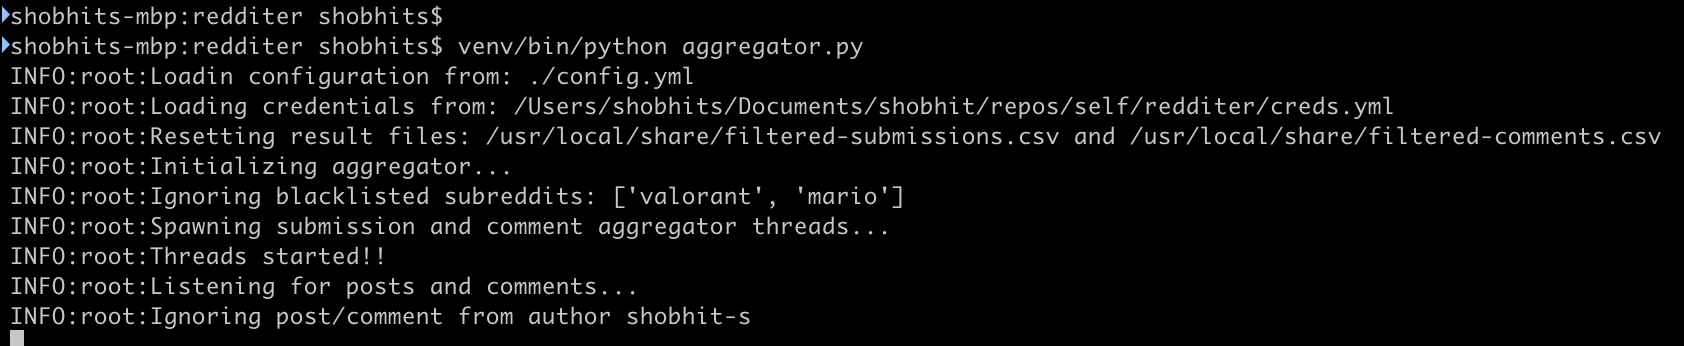
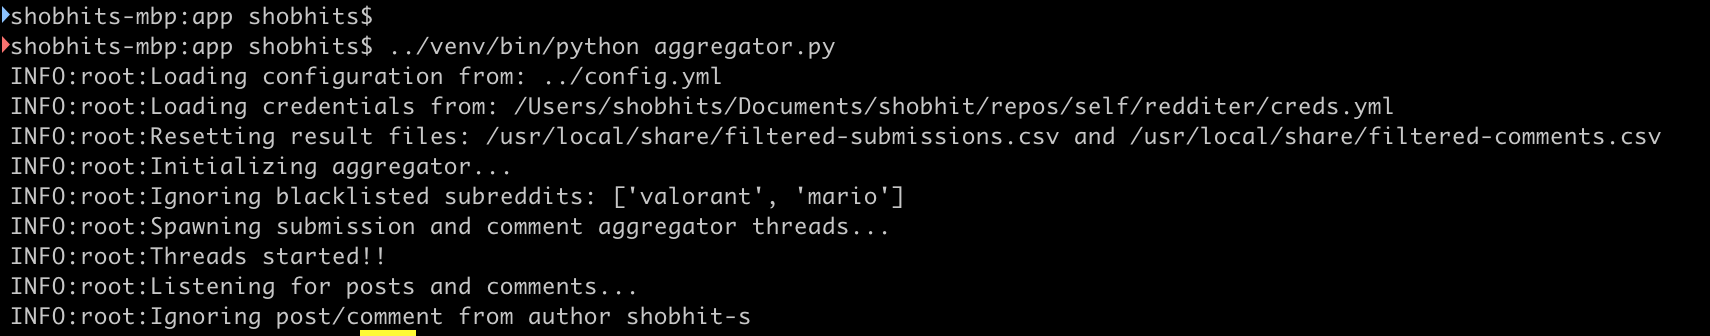
Added unit tests and changed directory structure (#3)

Changed region(s): [[0.0, 0.0298, 0.9881, 1.0]]

diff --git a/app/filters.py b/app/filters.py
@@ -1,0 +1,53 @@
+import logging
+import sys
+
+logging.basicConfig(stream=sys.stdout, level=logging.INFO)
+
+'''
+1. It extracts only those posts or comments that include all of the keywords specified in `redditer/config.yml`
+2. Subreddits mentioned in `exclude` section of `redditer/config.yml` are ignored even if the user is subscribed to it
+3. Posts or comments made by authors mentioned in `exclude` section of `redditer/config.yml` are ignored.
+'''
+class BaseFilter:
+    def __init__(self, config):
+        self.keywords = config["keywords"]
+        self.config = config
+
+    def keywordCheck(self, body):
+        for keyword in self.keywords:
+            if keyword not in body:
+                return False
+        return True
+
+    def ignoreAuthors(self, author):
+        if author in self.config.get("exclude").get("authors"):
+            logging.info("Ignoring post/comment from author " + author)
+            return True
+        return False
+
+    def basicCommentFilters(self, object):
+        acceptable = self.keywordCheck(object.body) and not self.ignoreAuthors(object.author.name)
+        return object if acceptable else None
+
+    def basicSubmissionFilters(self, object):
+        acceptable = self.keywordCheck(object.title + " " + object.selftext) and not self.ignoreAuthors(object.author.name)
+        return object if acceptable else None
+
+'''
+Driver class for all filters to be applied to the stream of data
+'''
+class Filters(BaseFilter):
+    def __init__(self, config):
+        BaseFilter.__init__(self, config)
+
+    def applyToComment(self, object):
+        object = self.basicCommentFilters(object)
+        # call other filters if required e.g.:
+        # object = SomeNewFilterClass.someNewFilter(object) if object is not None else None
+        return object
+
+    def applyToSubmission(self, object):
+        object = self.basicSubmissionFilters(object)
+        # call other filters if required e.g.:
+        # object = SomeNewFilterClass.someNewFilter(object) if object is not None else None
+        return object

diff --git a/tests/filters_test.py b/tests/filters_test.py
@@ -1,0 +1,42 @@
+import unittest
+import test_setup
+from app.filters import BaseFilter
+
+
+class FakeAuthor:
+    def __init__(self, author):
+        self.name = author
+
+class FakeClass:
+    def __init__(self, body, author, title="title", selftext="selftext"):
+        self.body = body
+        self.author = FakeAuthor(author)
+        self.title = title
+        self.selftext = selftext
+
+class TestBaseFilter(unittest.TestCase):
+
+    def test_keywordCheck(self):
+        b = BaseFilter({"keywords": ["randomkeyword"]})
+        self.assertEqual(b.keywordCheck("contains randomkeyword"), True)
+        self.assertEqual(b.keywordCheck("does not contain keyword"), False)
+
+    def test_ignoreAuthors(self):
+        b = BaseFilter({"keywords": ["randomkeyword"], "exclude": {"authors": ["shobhit"]}})
+        self.assertEqual(b.ignoreAuthors("shobhit"), True)
+        self.assertEqual(b.ignoreAuthors("shekhar"), False)
+
+    def test_basicCommentFilters(self):
+        b = BaseFilter({"keywords": ["randomkeyword"], "exclude": {"authors": ["shobhit"]}})
+        fake_object = FakeClass("randomkeyword", "shekhar")
+        self.assertEqual(b.basicCommentFilters(fake_object), fake_object)
+        fake_object = FakeClass("diffkeyword", "shekhar")
+        self.assertEqual(b.basicCommentFilters(fake_object), None)
+
+    def test_basicSubmissionFilters(self):
+        b = BaseFilter({"keywords": ["randomkeyword"], "exclude": {"authors": ["shobhit"]}})
+        fake_object = FakeClass("randomkeyword", "shekhar", "randomkeyword")
+        self.assertEqual(b.basicSubmissionFilters(fake_object), fake_object)
+        fake_object = FakeClass("diffkeyword", "shekhar", "diffkeyword")
+        self.assertEqual(b.basicSubmissionFilters(fake_object), None)
+

diff --git a/tests/reddit_helper_test.py b/tests/reddit_helper_test.py
@@ -1,0 +1,58 @@
+from unittest.mock import patch
+from unittest.mock import MagicMock
+import test_setup
+from app.reddit_helper import RedditHelper
+import unittest
+
+class FakeSubmissionComment:
+    def __init__(self):
+        pass
+
+    def submissions(self, pause_after):
+        pass
+
+    def comments(self, pause_after):
+        pass
+
+class FakeSubreddit:
+    def __init__(self, display_name):
+        self.display_name = display_name
+        self.stream = FakeSubmissionComment()
+
+
+class TestRedditHelper(unittest.TestCase):
+
+    def test_user_subreddits(self):
+        rh = RedditHelper('abc', 'def', 'ghi', 'jkl', 'mno', {"exclude": {"subreddits": ['kjhfnjk']}})
+        rh.reddit.user.subreddits = MagicMock(return_value=[FakeSubreddit("kjhfnjk")])
+        self.assertEqual(rh.userSubreddits(), [])
+
+    def test_start_posts_stream(self):
+        rh = RedditHelper('abc', 'def', 'ghi', 'jkl', 'mno', {"exclude": {"subreddits": ['kjhfnjk']}})
+        rh.reddit.subreddit = MagicMock(return_value=FakeSubreddit("kjhfnjk"))
+        with patch.object(FakeSubmissionComment, 'submissions', return_value=None, auto_spec=True) as rs:
+            rh.startPostsStream('some-subreddit')
+            rs.assert_called_with(pause_after=-1)
+
+    def test_start_comments_stream(self):
+        rh = RedditHelper('abc', 'def', 'ghi', 'jkl', 'mno', {"exclude": {"subreddits": ['kjhfnjk']}})
+        rh.reddit.subreddit = MagicMock(return_value=FakeSubreddit("kjhfnjk"))
+        with patch.object(FakeSubmissionComment, 'comments', return_value=None, auto_spec=True) as rs:
+            rh.startCommentsStream('some-subreddit')
+            rs.assert_called_with(pause_after=-1)
+
+
+
+
+
+
+
+
+
+
+
+
+
+
+
+

diff --git a/app/aggregator.py b/app/aggregator.py
@@ -7,13 +7,21 @@ import os
 import yaml
 import logging
 
-import reddit_helper
-import dumper
 import postman
 import filters
+import reddit_helper
+import dumper
 
 logging.basicConfig(stream=sys.stdout, level=logging.INFO)
 
+
+'''
+The job of Aggregator is to:
+1. Stream posts and comments at 10 seconds interval
+2. Filter out data that doesn't match the base filters and custom filters
+3. Add the given response to matched posts and comments
+4. Dump data about the filtered posts and comments to `submissionsFile` and `commentsFile`
+'''
 class Aggregator:
     def __init__(self, redditHelper, config):
         logging.info("Initializing aggregator...")
@@ -83,7 +91,7 @@ def resetResultFiles(submissionsFile, commentsFile):
         os.remove(commentsFile)
 
 def loadConfig(path):
-    logging.info("Loadin configuration from: " + path)
+    logging.info("Loading configuration from: " + path)
     with open(path) as file:
         config = yaml.load(file, Loader=yaml.FullLoader)
     return config
@@ -95,7 +103,7 @@ def loadCreds(path):
     return creds
 
 def main():
-    config = loadConfig("./config.yml")
+    config = loadConfig("../config.yml")
     creds = loadCreds(config["credsPath"])
 
     resetResultFiles(config["submissionsFile"], config["commentsFile"])

diff --git a/tests/postman_test.py b/tests/postman_test.py
@@ -1,0 +1,34 @@
+import unittest
+import test_setup
+from app.postman import PostMan
+from unittest.mock import MagicMock
+
+class FakeComment:
+    def __init__(self, id):
+        self.id = id
+
+    def reply(self):
+        pass
+
+class FakeSubmission:
+    def __init__(self, id):
+        self.id = id
+
+    def reply(self):
+        pass
+
+class TestPostman(unittest.TestCase):
+
+    def test_postComment(self):
+        p = PostMan("My new response")
+        fake_sub = FakeSubmission('hnauw6')
+        fake_sub.reply = MagicMock()
+        p.postComment(fake_sub)
+        fake_sub.reply.assert_called_with("My new response")
+
+    def test_postReply(self):
+        p = PostMan("My new response")
+        fake_sub = FakeComment('hnauw6')
+        fake_sub.reply = MagicMock()
+        p.postComment(fake_sub)
+        fake_sub.reply.assert_called_with("My new response")

diff --git a/tests/dumper_test.py b/tests/dumper_test.py
@@ -1,0 +1,21 @@
+import unittest
+import test_setup
+from app.dumper import Dumper
+from unittest import mock
+import json
+
+class TestDumper(unittest.TestCase):
+
+    def test_dump_submission(self):
+        d = Dumper({'submissionsFile': '/a/b/c/d', "commentsFile": '/e/f/g/h'})
+        mock_open = mock.mock_open(read_data=json.dumps({}))
+        with mock.patch('builtins.open', mock_open):
+            d.dumpSubmission(["abc", "def", "ghi"])
+            mock_open.assert_called_with('/a/b/c/d', 'a')
+
+    def test_dump_comment(self):
+        d = Dumper({'submissionsFile': '/a/b/c/d', "commentsFile": '/e/f/g/h'})
+        mock_open = mock.mock_open(read_data=json.dumps({}))
+        with mock.patch('builtins.open', mock_open):
+            d.dumpComment(["abc", "def"])
+            mock_open.assert_called_with('/e/f/g/h', 'a')

diff --git a/app/dumper.py b/app/dumper.py
@@ -3,6 +3,11 @@ import logging
 import sys
 logging.basicConfig(stream=sys.stdout, level=logging.INFO)
 
+
+'''
+The job of dumper is to dump rows of filtered data sent to it by aggregator
+to submissionsFile and commentsFile
+'''
 class Dumper:
     def __init__(self, config):
         self.submissionsFile = config["submissionsFile"]

diff --git a/tests/test_setup.py b/tests/test_setup.py
@@ -1,0 +1,4 @@
+import os,sys,inspect
+current_dir = os.path.dirname(os.path.abspath(inspect.getfile(inspect.currentframe())))
+parent_dir = os.path.dirname(current_dir)
+sys.path.insert(0, parent_dir)

diff --git a/README.md b/README.md
@@ -49,8 +49,8 @@ venv/bin/pip install -r requirements.txt
 
 6. Start redditer:
     ```shell
-    cd redditer/
-    venv/bin/python aggregator.py
+    cd redditer/app/
+    ../venv/bin/python aggregator.py
     ```
     
 ## How it Works
@@ -65,22 +65,28 @@ venv/bin/pip install -r requirements.txt
 
 4. Creates `redditHelper` object using the configurations provided and `praw` python package.
 
-5. Initializes Aggregator object. Aggregator in turn does the following before returning the object:
+5. Initializes Aggregator object. Aggregator initializes the following before returning the object:
     1. Initialize `filters` object - The job of filters is to apply user-provided filters to all posts or comments that the aggregator aggregates.
     2. Initialize `postMan` object - Postman reads the response provided by the user and applies that response to all the filtered out posts and comments.
     3. Initialize `dumper` object - The job of dumper is to dump all the filtered out submissions and comments to files specified by the user in CSV format. Refer to *Results format* section to know more about results structure.
     
-6. Spawn two threads:
+6. The job of Aggregator is to:
+    1. Stream posts and comments at 10 seconds interval
+    2. Filter out data that doesn't match the base filters and custom filters
+    3. Add the given response to matched posts and comments
+    4. Dump data about the filtered posts and comments to `submissionsFile` and `commentsFile`
+
+7. Spawn two threads:
     1. One thread to stream submissions based on filters provided
     2. One thread to stream comments based on filters provided
     
-7. Aggregator tracks only those subreddits that the configured user is subscribed to and is not excluded in `config.yml`
+8. Aggregator tracks only those subreddits that the configured user is subscribed to and is not excluded in `config.yml`
 
-8. Reddit doesn't allow you to post comments more than once every 5 seconds. So to avoid being blocked by reddit, `Aggregator` polls reddit for new Posts or Comments with a sleep of 10 seconds.
+9. Reddit doesn't allow you to post comments more than once every 5 seconds. So to avoid being blocked by reddit, `Aggregator` polls reddit for new Posts or Comments with a sleep of 10 seconds.
 
-9. For any matching Submission, aggregator adds a comment to that post and dumps the original post's details to `submissionsFile`
+10. For any matching Submission, aggregator adds a comment to that post and dumps the original post's details to `submissionsFile`
 
-10. For any matching Comment, aggregator adds a reply to that comment and dumps the original comment's details to `commentsFile`
+11. For any matching Comment, aggregator adds a reply to that comment and dumps the original comment's details to `commentsFile`
 
 ## Results format
 
@@ -112,7 +118,7 @@ Since we are dumping a CSV, this can be easily loaded into analytics systems and
 
 ## How to add custom filter logics
 
-1. To add a new filter to the collected submissions and comments, you need modify `redditer/filters.py`
+1. To add a new filter to the collected submissions and comments, you need modify `redditer/app/filters.py`
 
 2. Define your own class of filters, e.g.:
     ```python
